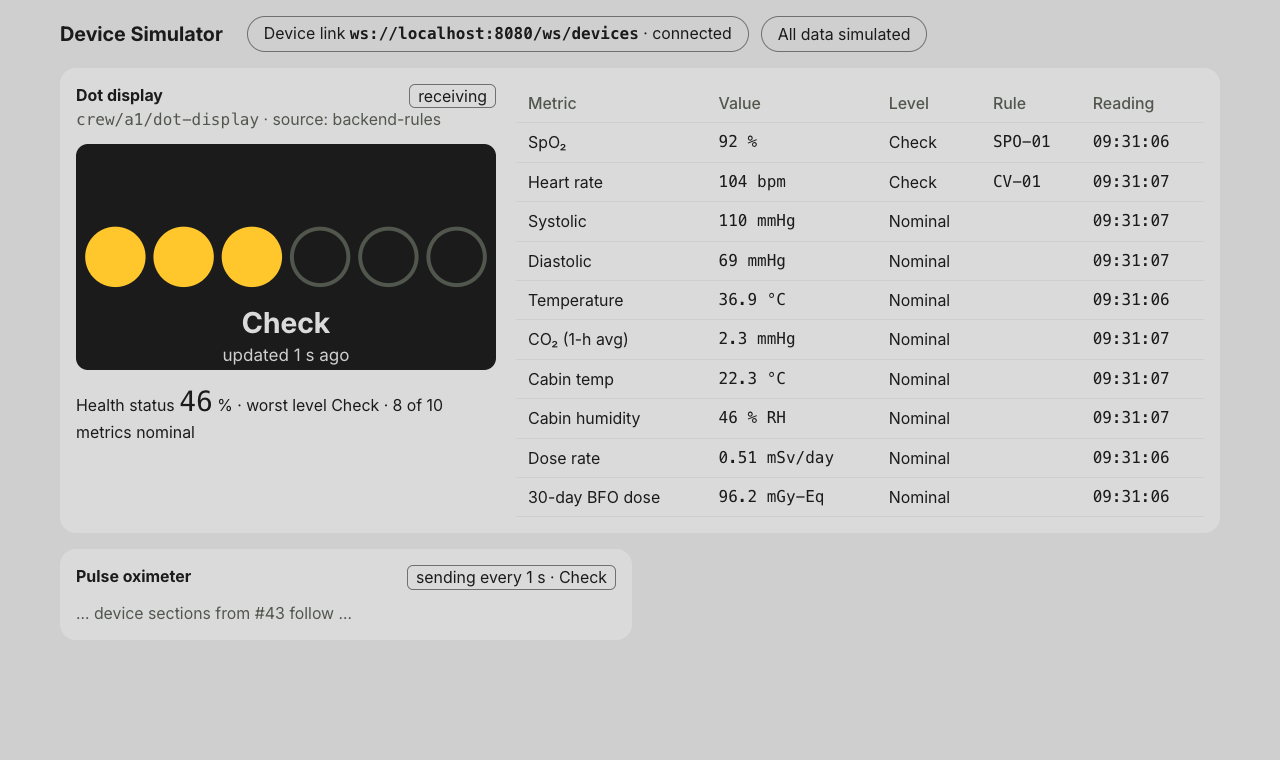
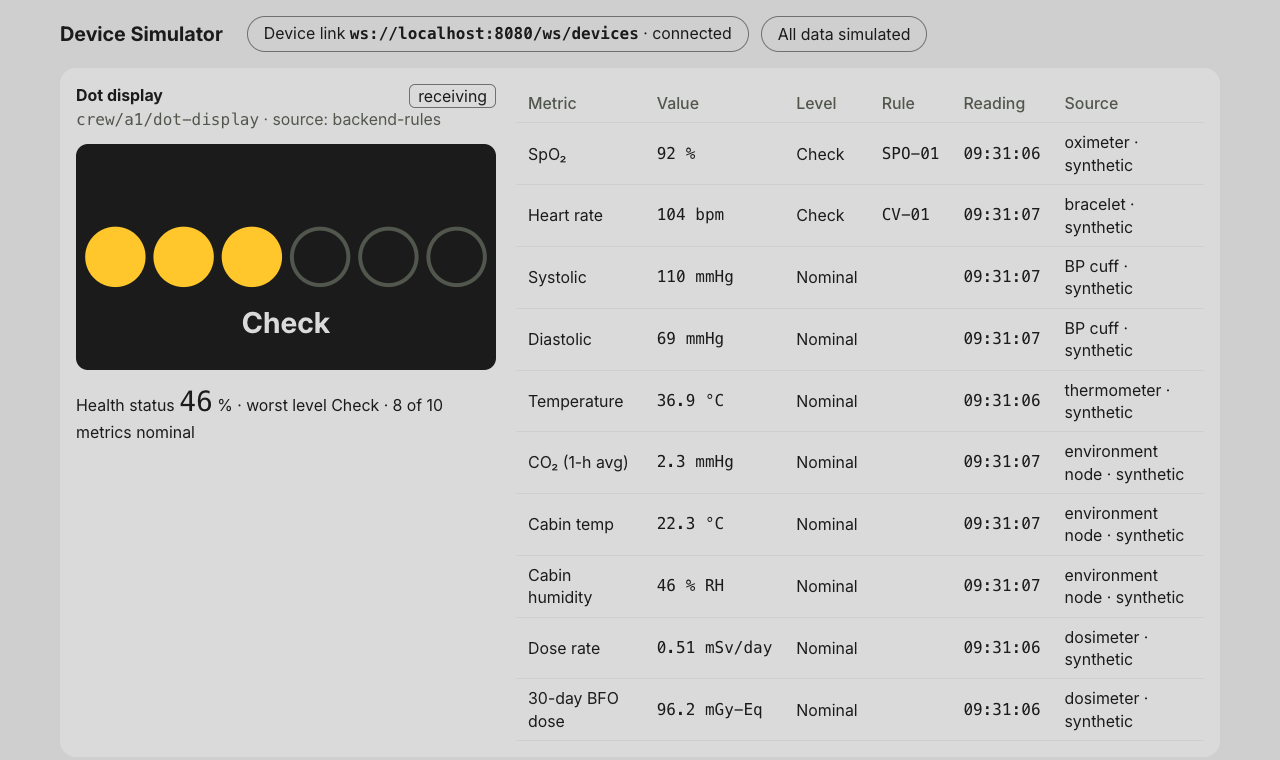
docs: dot display mock adds Source column, drops the data-age line

diff --git a/docs/features/dot-display-status.mock.html b/docs/features/dot-display-status.mock.html
@@ -15,7 +15,7 @@ body { margin: 0; }
 table { width: 100%; border-collapse: collapse; font-size: var(--text-body); }
 th, td { text-align: left; padding: var(--space-2) var(--space-3); border-bottom: 1px solid var(--color-divider); }
 th { color: var(--color-text-muted); font-weight: 500; }
-td.num { font-family: var(--font-data); }
+td.num { font-family: var(--font-data); white-space: nowrap; }
 .pct { font-family: var(--font-data); font-size: var(--text-value); }
 </style></head>
 <body><div class="sim">
@@ -29,20 +29,20 @@ td.num { font-family: var(--font-data); }
     <div class="panel" style="margin-top:var(--space-3)"><svg viewBox="0 0 320 172" role="img" aria-label="3 of 6 dots, Check">
       <circle class="dot dot--yellow" cx="30" cy="86" r="23"/><circle class="dot dot--yellow" cx="82" cy="86" r="23"/><circle class="dot dot--yellow" cx="134" cy="86" r="23"/>
       <circle class="dot dot--empty" cx="186" cy="86" r="21.5"/><circle class="dot dot--empty" cx="238" cy="86" r="21.5"/><circle class="dot dot--empty" cx="290" cy="86" r="21.5"/>
-      <text class="word" x="160" y="136">Check</text><text class="age" x="160" y="160">updated 1 s ago</text></svg></div>
+      <text class="word" x="160" y="136">Check</text></svg></div>
     <p style="margin-top:var(--space-3)">Health status <span class="pct">46</span> % · worst level Check · 8 of 10 metrics nominal</p>
   </div>
-  <table><thead><tr><th>Metric</th><th>Value</th><th>Level</th><th>Rule</th><th>Reading</th></tr></thead><tbody>
-    <tr><td>SpO₂</td><td class="num">92 %</td><td>Check</td><td class="num">SPO-01</td><td class="num">09:31:06</td></tr>
-    <tr><td>Heart rate</td><td class="num">104 bpm</td><td>Check</td><td class="num">CV-01</td><td class="num">09:31:07</td></tr>
-    <tr><td>Systolic</td><td class="num">110 mmHg</td><td>Nominal</td><td></td><td class="num">09:31:07</td></tr>
-    <tr><td>Diastolic</td><td class="num">69 mmHg</td><td>Nominal</td><td></td><td class="num">09:31:07</td></tr>
-    <tr><td>Temperature</td><td class="num">36.9 °C</td><td>Nominal</td><td></td><td class="num">09:31:06</td></tr>
-    <tr><td>CO₂ (1-h avg)</td><td class="num">2.3 mmHg</td><td>Nominal</td><td></td><td class="num">09:31:07</td></tr>
-    <tr><td>Cabin temp</td><td class="num">22.3 °C</td><td>Nominal</td><td></td><td class="num">09:31:07</td></tr>
-    <tr><td>Cabin humidity</td><td class="num">46 % RH</td><td>Nominal</td><td></td><td class="num">09:31:07</td></tr>
-    <tr><td>Dose rate</td><td class="num">0.51 mSv/day</td><td>Nominal</td><td></td><td class="num">09:31:06</td></tr>
-    <tr><td>30-day BFO dose</td><td class="num">96.2 mGy-Eq</td><td>Nominal</td><td></td><td class="num">09:31:06</td></tr>
+  <table><thead><tr><th>Metric</th><th>Value</th><th>Level</th><th>Rule</th><th>Reading</th><th>Source</th></tr></thead><tbody>
+    <tr><td>SpO₂</td><td class="num">92 %</td><td>Check</td><td class="num">SPO-01</td><td class="num">09:31:06</td><td>oximeter · synthetic</td></tr>
+    <tr><td>Heart rate</td><td class="num">104 bpm</td><td>Check</td><td class="num">CV-01</td><td class="num">09:31:07</td><td>bracelet · synthetic</td></tr>
+    <tr><td>Systolic</td><td class="num">110 mmHg</td><td>Nominal</td><td></td><td class="num">09:31:07</td><td>BP cuff · synthetic</td></tr>
+    <tr><td>Diastolic</td><td class="num">69 mmHg</td><td>Nominal</td><td></td><td class="num">09:31:07</td><td>BP cuff · synthetic</td></tr>
+    <tr><td>Temperature</td><td class="num">36.9 °C</td><td>Nominal</td><td></td><td class="num">09:31:06</td><td>thermometer · synthetic</td></tr>
+    <tr><td>CO₂ (1-h avg)</td><td class="num">2.3 mmHg</td><td>Nominal</td><td></td><td class="num">09:31:07</td><td>environment node · synthetic</td></tr>
+    <tr><td>Cabin temp</td><td class="num">22.3 °C</td><td>Nominal</td><td></td><td class="num">09:31:07</td><td>environment node · synthetic</td></tr>
+    <tr><td>Cabin humidity</td><td class="num">46 % RH</td><td>Nominal</td><td></td><td class="num">09:31:07</td><td>environment node · synthetic</td></tr>
+    <tr><td>Dose rate</td><td class="num">0.51 mSv/day</td><td>Nominal</td><td></td><td class="num">09:31:06</td><td>dosimeter · synthetic</td></tr>
+    <tr><td>30-day BFO dose</td><td class="num">96.2 mGy-Eq</td><td>Nominal</td><td></td><td class="num">09:31:06</td><td>dosimeter · synthetic</td></tr>
   </tbody></table>
 </section>
 <div class="sim-devices"><section class="card sim-device"><div class="sim-device__top"><h2>Pulse oximeter</h2><span class="tag">sending every 1 s · Check</span></div><p class="muted">… device sections from #43 follow …</p></section></div>
